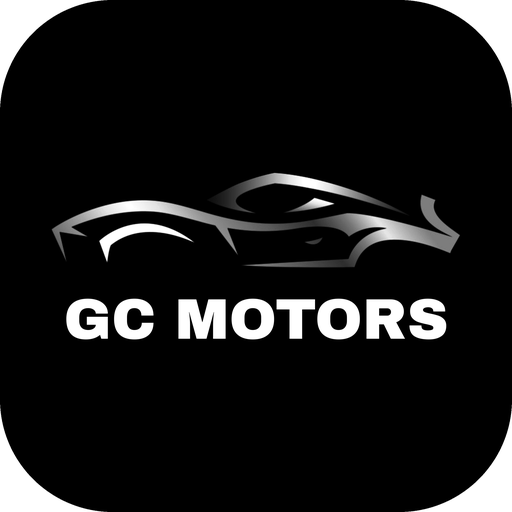
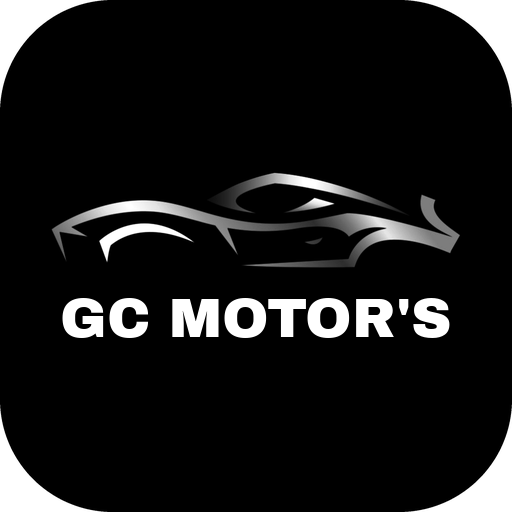
Nom de marque : GC Motor's (app, icônes, documents)
Claude-Session: https://claude.ai/code/session_01D5qFEdAa83zF7XnHL4iSSE

Changed region(s): [[0.125, 0.5625, 0.875, 0.6875]]

diff --git a/index.html b/index.html
@@ -3,13 +3,13 @@
 <head>
 <meta charset="utf-8">
 <meta name="viewport" content="width=device-width, initial-scale=1, maximum-scale=1, user-scalable=no, viewport-fit=cover">
-<title>GC Motors</title>
+<title>GC Motor's</title>
 <meta name="theme-color" content="#000000">
-<meta name="apple-mobile-web-app-title" content="GC Motors">
+<meta name="apple-mobile-web-app-title" content="GC Motor's">
 <link rel="icon" type="image/svg+xml" href="logo.svg">
-<link rel="icon" type="image/png" href="favicon-64.png?v=6">
-<link rel="apple-touch-icon" href="apple-touch-icon.png?v=6">
-<link rel="manifest" href="manifest.webmanifest?v=6">
+<link rel="icon" type="image/png" href="favicon-64.png?v=7">
+<link rel="apple-touch-icon" href="apple-touch-icon.png?v=7">
+<link rel="manifest" href="manifest.webmanifest?v=7">
 <meta name="apple-mobile-web-app-capable" content="yes">
 <meta name="mobile-web-app-capable" content="yes">
 <meta name="apple-mobile-web-app-status-bar-style" content="black-translucent">
@@ -17,7 +17,7 @@
 <link rel="preconnect" href="https://fonts.gstatic.com" crossorigin>
 <link href="https://fonts.googleapis.com/css2?family=Barlow+Condensed:wght@500;600;700&family=IBM+Plex+Sans:wght@400;500;600&family=IBM+Plex+Mono:wght@500&display=swap" rel="stylesheet">
 <style>
-/* GC Motors : marine profond + bleu signal + chrome. Barre latérale sur PC, barre de marque + onglets en bas sur téléphone. */
+/* GC Motor's : marine profond + bleu signal + chrome. Barre latérale sur PC, barre de marque + onglets en bas sur téléphone. */
 :root{
   --bg:#f4f4f4; --surface:#ffffff; --surface-2:#ececec; --line:#dadada;
   --ink:#111111; --muted:#666666; --accent:#111111; --brand:#000000; --brand-ink:#ffffff; --accent-ink:#ffffff; --accent-soft:#e8e8e8;
@@ -511,7 +511,7 @@ const CHECK=[
   {g:"Achat",items:[["carpassAchat","Car-Pass vérifié"],["obd","Diagnostic OBD fait"],["essai","Essai routier fait"],["bordereau","Bordereau d'achat signé"],["docsAchat","Certificats + clés récupérés"],["registre","Inscrit au registre des achats"]]},
   {g:"Préparation",items:[["repar","Réparations faites"],["nettoyage","Nettoyage / detailing"],["ct","CT vente OK"],["carpassVente","Car-Pass de vente"],["garantie","Garantie externe souscrite"],["photos","Photos faites"],["annonce","Annonce publiée"]]},
   {g:"Vente",items:[["bon","Bon de commande / PV signé"],["paiement","Paiement reçu sur le compte"],["facture","Facture régime de la marge"],["docsVente","Documents remis à l'acheteur"],["compta","Facture transmise au comptable"]]}];
-const APP_VERSION="20.9";
+const APP_VERSION="21.0";
 const MOIS=["Janvier","Février","Mars","Avril","Mai","Juin","Juillet","Août","Septembre","Octobre","Novembre","Décembre"];
 const JTYPES=["Réparation","Entretien","Passage au garage","Contrôle technique","Pneus","Car-Pass","Transport / plateau","Garantie externe","Nettoyage / préparation","Pièces commandées","Photos","Annonce publiée","Baisse de prix","Visite / essai client","Offre reçue","Rendez-vous","Document reçu","Problème constaté","Autre"];
 const CHECKLIST=[["A. Données d'identification",["Plaquette du constructeur","Frappe à froid sur le châssis","Compteur kilométrique","Certificat d'immatriculation","C.O.C. ou certificat de conformité","Certificat de contrôle technique","Carnet d'entretien"]],
@@ -1036,7 +1036,7 @@ function signModal(r,done){const k=r.sign.kind,v=r.sign.v,sg=((v.sigs||{})[k])||
   const ov=$("#overlay");
   const box=document.createElement("div");box.className="modal sigmodal";box.innerHTML='<div class="card"><h2>Signer '+(k==="bdc"?"le bon de commande":"le contrat d\'achat")+'</h2><p class="note">Signe avec le doigt. Tu peux ne remplir qu\'un cadre : l\'autre signature pourra être ajoutée plus tard.</p>'+
     '<div class="sigl"><b>'+esc(autre)+'</b><button class="btn small" data-sg="clr1">Effacer</button></div><div class="sigbox" id="sg1"></div>'+(sg[who]?'<p class="note" style="margin:4px 0 0">Une signature existe déjà : signe à nouveau pour la remplacer, ou laisse vide pour la garder.</p>':'')+
-    '<div class="sigl" style="margin-top:12px"><b>Ma signature (GC Motors)</b><button class="btn small" data-sg="clr2">'+(mine?"Refaire":"Effacer")+'</button></div>'+(mine?'<div class="sigsaved" id="sg2s"><img src="'+mine.d+'" alt="Ma signature"><label class="ckline" style="justify-content:center;color:#10131a;margin-top:6px"><input type="checkbox" id="sg2use"'+(sg.moi||!sg[who]?" checked":"")+'><span>Ajouter ma signature</span></label></div><div class="sigbox" id="sg2" hidden></div>':'<div class="sigbox" id="sg2"></div><p class="note" style="margin:4px 0 0">Elle sera enregistrée pour tes prochains documents.</p>')+
+    '<div class="sigl" style="margin-top:12px"><b>Ma signature ('+esc(entNomV())+')</b><button class="btn small" data-sg="clr2">'+(mine?"Refaire":"Effacer")+'</button></div>'+(mine?'<div class="sigsaved" id="sg2s"><img src="'+mine.d+'" alt="Ma signature"><label class="ckline" style="justify-content:center;color:#10131a;margin-top:6px"><input type="checkbox" id="sg2use"'+(sg.moi||!sg[who]?" checked":"")+'><span>Ajouter ma signature</span></label></div><div class="sigbox" id="sg2" hidden></div>':'<div class="sigbox" id="sg2"></div><p class="note" style="margin:4px 0 0">Elle sera enregistrée pour tes prochains documents.</p>')+
     '<div class="acts"><button class="btn" data-sg="no">Annuler</button><button class="btn primary" data-sg="ok">Valider les signatures</button></div></div>';
   ov.appendChild(box);const p1=sigPad(box.querySelector("#sg1"));let p2=mine?null:sigPad(box.querySelector("#sg2"));
   box.addEventListener("click",e=>{e.stopPropagation();const b=e.target.closest("[data-sg]");if(!b)return;const a=b.dataset.sg;
@@ -1210,7 +1210,7 @@ async function recapPdf(annexe){
   if(annexe){const cols=[["N°",M+1],["Type",M+10,0,44],["Véhicule",M+56,0,62],["Pièce",M+120,0,60]];let n=0;
     [["rev","Pièces jointes : factures de revenus"],["dep","Pièces jointes : factures de dépenses"],["aut","Pièces jointes : autres documents"]].forEach(([g,t])=>{const P=annexe.pieces.filter(x=>x.g===g);if(!P.length&&g==="aut")return;table(t+" ("+P.length+")",cols,P.map(x=>[String(++n),x.type,x.veh,x.det||""]))});
     if(annexe.manques.length)table("Pièces manquantes ("+annexe.manques.length+")",[["Type",M+1,0,50],["Véhicule",M+54,0,64],["Détail",M+120,0,60]],annexe.manques.map(x=>[x.type,x.veh,x.det||""]))}
-  doc.setFontSize(7.5);doc.setTextColor(90,96,110);doc.text("Document de travail généré par GC Motors, à vérifier par le comptable.",M,yy);pdfPied(doc,page);
+  doc.setFontSize(7.5);doc.setTextColor(90,96,110);doc.text("Document de travail généré par GC Motor's, à vérifier par le comptable.",M,yy);pdfPied(doc,page);
   return{blob:doc.output("blob"),name:"Recap-T"+(q+1)+"-"+y+".pdf",titre:"Récap T"+(q+1)+" "+y,doc};
 }
 let pdfLibP=null;
@@ -1503,7 +1503,7 @@ function factureModal(v){const ov=$("#overlay");
       Object.assign(v,c,{clientTel:g("fc-tel"),clientEmail:g("fc-email"),clientAdresse:g("fc-adr")});v.garPro=c.clientType==="pro"?+$("#fc-garpro").value:0;
       persistVehicle(v,true);ov.innerHTML="";const r=await facturePdf(v);if(r){apercuGen(r,"Facture "+r.num,null,{v,cat:"facturev"});if($("#doclist"))refreshFacts(v)}}};
 }
-function entNomV(){const n=String(S.settings.entNom||"").trim();return !n||n==="Car Occas"?"GC Motors":n}
+function entNomV(){const n=String(S.settings.entNom||"").trim();return !n||/^(car occas|gc motors?)$/i.test(n)?"GC Motor\'s":n}
 function vendeurNomV(v){return v.vendeurType==="pro"?(v.vendeurSociete||""):[v.vendeurPrenom,v.vendeurNom].filter(Boolean).join(" ")}
 function vFiche(r){
   const v=curVeh(r.id);
@@ -2966,13 +2966,13 @@ function vReglages(){
   if(S.mode!=="local"&&auth&&auth.currentUser)h+='<div class="card"><h2>Compte</h2><p class="note">Connecté avec '+esc(S.email||"")+'.</p><button class="btn small" data-act="logout">Se déconnecter</button></div>';
   else if(fbReady())h+='<div class="card"><h2>Compte</h2><p class="note">Tu utilises l\'app sans compte : tes données restent sur cet appareil.</p><button class="btn small" data-act="gologin">Se connecter / créer un compte</button></div>';
   const tx=(k,l,ph,t)=>'<label class="f">'+l+'<input data-sett="'+k+'" type="'+(t||"text")+'" value="'+esc(s[k]||"")+'" placeholder="'+esc(ph||"")+'"></label>';
-  h+='<div class="card"><h2>Mon entreprise (fiches PDF)</h2><div class="form">'+tx("entNom","Nom commercial","GC Motors")+tx("entTel","Téléphone","+32 …","tel")+tx("entEmail","E-mail","contact@…","email")+tx("entTva","N° de TVA","BE0…")+tx("entBce","N° d'entreprise (BCE)","0… (vide = même que la TVA)")+tx("entAdresse","Adresse","Rue, numéro, code postal, ville")+tx("entIban","IBAN","BE00 0000 0000 0000")+tx("entBic","BIC","GEBABEBB")+tx("entWeb","Site web","www.…")+'</div><p class="note" style="margin-top:8px">Ces coordonnées apparaissent sur les fiches PDF et les bons de commande. Avec l\'IBAN, le bon de commande affiche un QR code de paiement.</p></div>';
+  h+='<div class="card"><h2>Mon entreprise (fiches PDF)</h2><div class="form">'+tx("entNom","Nom commercial","GC Motor\'s")+tx("entTel","Téléphone","+32 …","tel")+tx("entEmail","E-mail","contact@…","email")+tx("entTva","N° de TVA","BE0…")+tx("entBce","N° d'entreprise (BCE)","0… (vide = même que la TVA)")+tx("entAdresse","Adresse","Rue, numéro, code postal, ville")+tx("entIban","IBAN","BE00 0000 0000 0000")+tx("entBic","BIC","GEBABEBB")+tx("entWeb","Site web","www.…")+'</div><p class="note" style="margin-top:8px">Ces coordonnées apparaissent sur les fiches PDF et les bons de commande. Avec l\'IBAN, le bon de commande affiche un QR code de paiement.</p></div>';
   h+='<div class="card"><h2>Bon de commande</h2><label class="f full">Conditions de garantie (description)<textarea data-sett="bdcConditions" rows="4">'+esc(s.bdcConditions||BDC_CONDITIONS_DEF)+'</textarea></label><label class="f full" style="margin-top:10px">Conditions générales de vente (une par ligne)<textarea data-sett="cgv" rows="10">'+esc(s.cgv||CGV_DEF)+'</textarea></label><p class="note" style="margin-top:8px">Le numéro de bon suit le format AA-0001. Prochain numéro : '+esc(String(new Date().getFullYear()).slice(2)+"-"+String((num(s.bdcSeq)||0)+1).padStart(4,"0"))+'. Fais relire tes conditions générales par un juriste ou ta fédération professionnelle.</p></div>';
   h+='<div class="card"><h2>Calculs</h2><div class="form">'+i("tva","Taux de TVA (%)","21 % en Belgique, appliqué au régime de la marge")+i("margeVisee","Marge nette visée par voiture (€)","Utilisée pour le prix d'achat maximum")+i("provGarantie","Provision garantie par voiture (€)","Mise de côté pendant la garantie")+i("cotisTrim","Cotisations sociales par trimestre (€)","Mets le montant demandé par ta caisse. Par défaut : minimum 2026 à titre principal (926,48 €)")+i("tauxImpot","Impôt à réserver (% du bénéfice)","Estimation, 30 % par défaut. À ajuster avec ton comptable")+i("dureeGarantie","Durée de garantie (mois)","12 mois minimum pour un pro en occasion")+i("seuilJours","Alerte stock après (jours)")+'</div></div>';
   h+='<div class="card"><h2>Liquidités</h2><div class="form">'+i("capitalDepart","Capital de départ (€)","L\'argent que tu as mis dans l\'activité au départ")+i("ajustTreso","Apports / retraits (€)","Positif si tu remets de l\'argent, négatif si tu en retires pour toi")+'</div></div>';
   h+='<div class="card"><h2>Sauvegarde</h2><p class="note">Copie tes données pour les garder ailleurs, ou colle une sauvegarde pour la restaurer.</p><div style="display:flex;gap:8px;flex-wrap:wrap;margin:10px 0"><button class="btn small" data-act="export">Copier mes données</button><button class="btn small" data-act="import">Restaurer depuis une sauvegarde</button></div><label class="f full"><span>Zone de sauvegarde</span><textarea id="backup" placeholder="La sauvegarde apparaît ici, ou colle-la ici pour restaurer."></textarea></label></div>';
   h+='<div class="card"><h2>Documents existants</h2><p class="note">Recrée tous les bons de commande, factures de vente et contrats d\'achat déjà enregistrés avec le logo et le bandeau actuels. Les numéros, dates, montants et signatures ne changent pas. Les documents scannés ou reçus (factures de garage, factures d\'achat de vendeurs…) ne sont pas modifiés.</p><button class="btn primary" style="width:100%;justify-content:center;margin-top:8px" data-act="regendocs">Mettre à jour tous les documents</button></div>';
-  h+='<p class="note" style="text-align:center">GC Motors · version '+APP_VERSION+'</p>';
+  h+='<p class="note" style="text-align:center">'+esc(entNomV())+' · version '+APP_VERSION+'</p>';
   if((s.hiddenDemos||[]).length)h+='<div class="card"><h2>Voitures d\'exemple</h2><p class="note">Tu as supprimé '+s.hiddenDemos.length+' voiture(s) d\'exemple.</p><button class="btn small" style="margin-top:8px" data-act="showdemos">Réafficher les exemples</button></div>';
   h+='<div class="card"><h2>Rappels</h2><p class="note">TVA sur la marge = marge × 21/121. Facture avec la mention « régime de la marge – biens d\'occasion ». Garantie d\'au moins un an pour un vendeur professionnel. Ces calculs ne remplacent pas ton comptable.</p></div>';
   return h;

diff --git a/sw.js b/sw.js
@@ -1,5 +1,5 @@
 // GC Motors : met l'app en cache pour l'ouvrir même sans réseau. Les données passent par Firebase.
-const CACHE = "gc-motors-v30";
+const CACHE = "gc-motors-v31";
 const SHELL = ["./", "index.html", "manifest.webmanifest", "firebase-config.js", "icon-192.png", "icon-512.png", "logo.svg", "apple-touch-icon.png"];
 self.addEventListener("install", e => { e.waitUntil(caches.open(CACHE).then(c => c.addAll(SHELL)).then(() => self.skipWaiting())); });
 self.addEventListener("activate", e => { e.waitUntil(caches.keys().then(ks => Promise.all(ks.filter(k => k !== CACHE).map(k => caches.delete(k)))).then(() => self.clients.claim())); });
